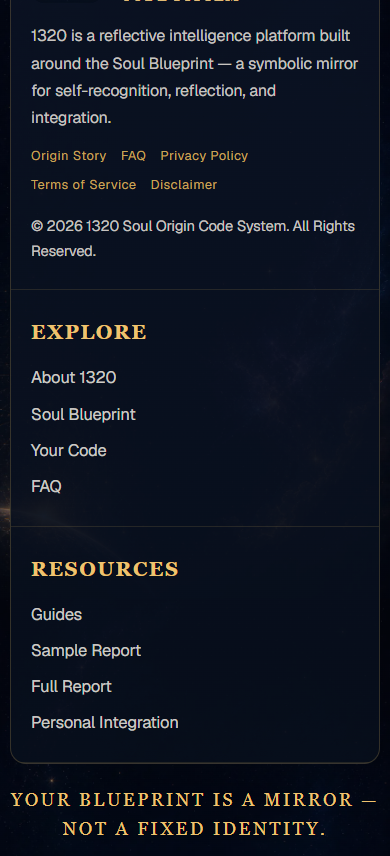
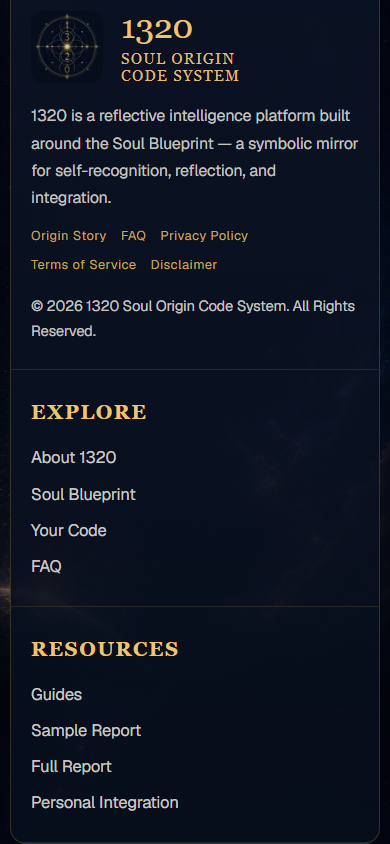
Record Page 06 mobile footer HOLD production smoke PASS (12/12).
Evidence captured against live production after deploy of the compact-footer fix.

diff --git a/qa-artifacts/SEO_PAGE06_FOOTER_HOLD_RETURN.md b/qa-artifacts/SEO_PAGE06_FOOTER_HOLD_RETURN.md
@@ -1,8 +1,8 @@
 # Page 06 HOLD clearance — mobile footer newsletter
 
-**Status:** HOLD correction implemented — awaiting Wisewave Accepted and Closed after production confirm  
+**Status:** HOLD correction live — production smoke PASS — awaiting Wisewave Accepted and Closed  
 **Canonical:** https://www.1320soulcode.com/what-does-your-birthday-mean  
-**Correction commit:** `bde4cc7`  
+**Production commit:** `6c7b076`  
 **Date:** 2026-08-05
 
 ## Change
@@ -16,15 +16,15 @@ Shared article / guide / inner-marketing mobile footer rule (not Page 06-only):
 
 File: `styles/site-density-v1.css` (alongside homepage `.footer-subscribe` hide)
 
-## Targeted smoke (local production build)
+## Targeted production smoke
 
 Command:
 
 ```bash
-QA_BASE_URL=http://localhost:3020 npx tsx scripts/screenshot-seo-page06-footer-hold.ts
+npx tsx scripts/screenshot-seo-page06-footer-hold.ts
 ```
 
-Result: **12 / 12 PASS**
+Result: **12 / 12 PASS** against `https://www.1320soulcode.com`
 
 Confirmations:
 - Newsletter inputs / Stay Connected / Subscribe CTA absent on mobile (not visible)
@@ -37,3 +37,5 @@ Evidence:
 - `qa-artifacts/seo-page06-footer-hold/page06-390-full.png`
 - `qa-artifacts/seo-page06-footer-hold/page06-1280-footer-crop.png`
 - `qa-artifacts/seo-page06-footer-hold/page06-footer-hold-checks.json`
+
+Production commit: https://github.com/hollywoodyj-dev/1320web/commit/6c7b076
